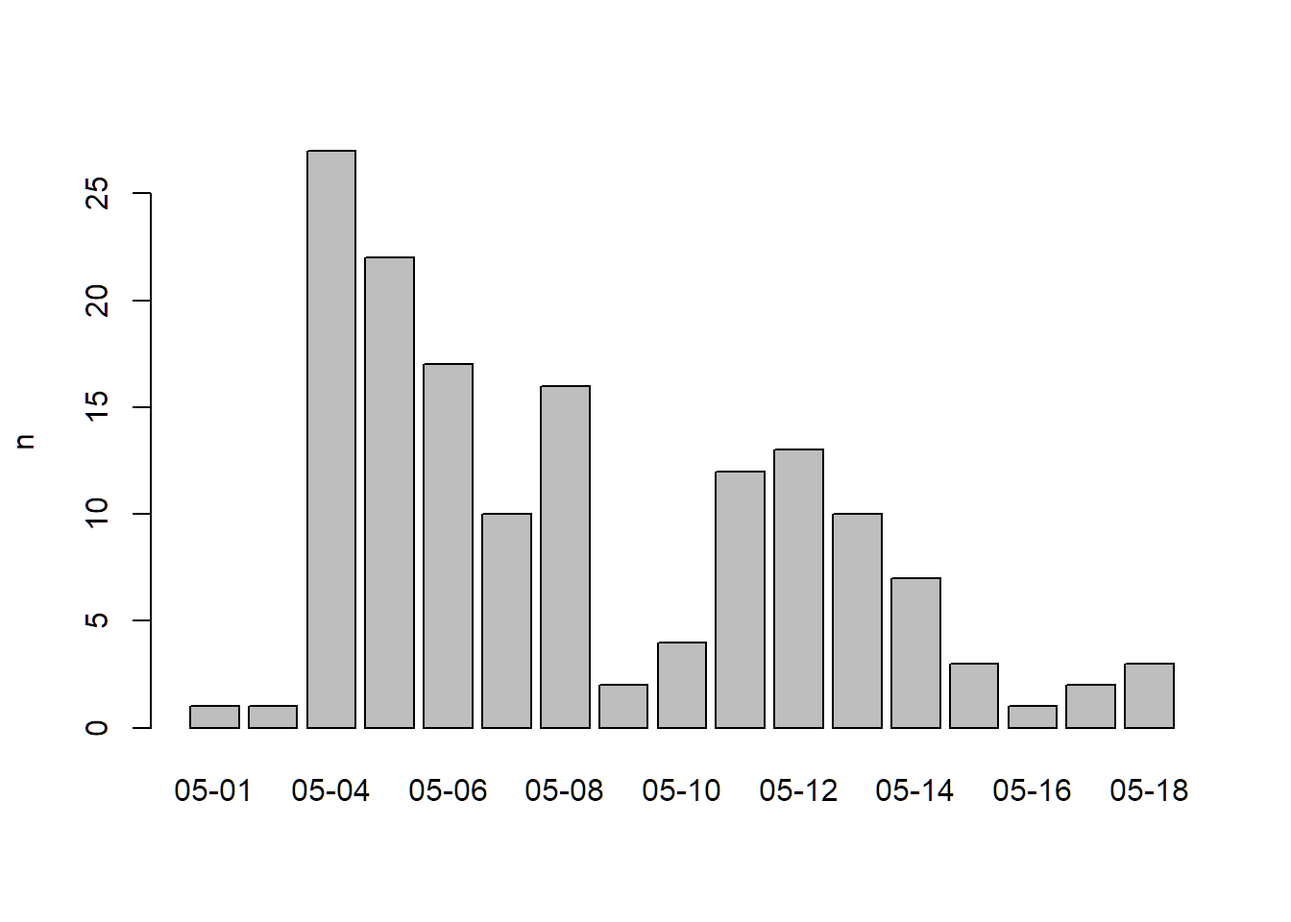
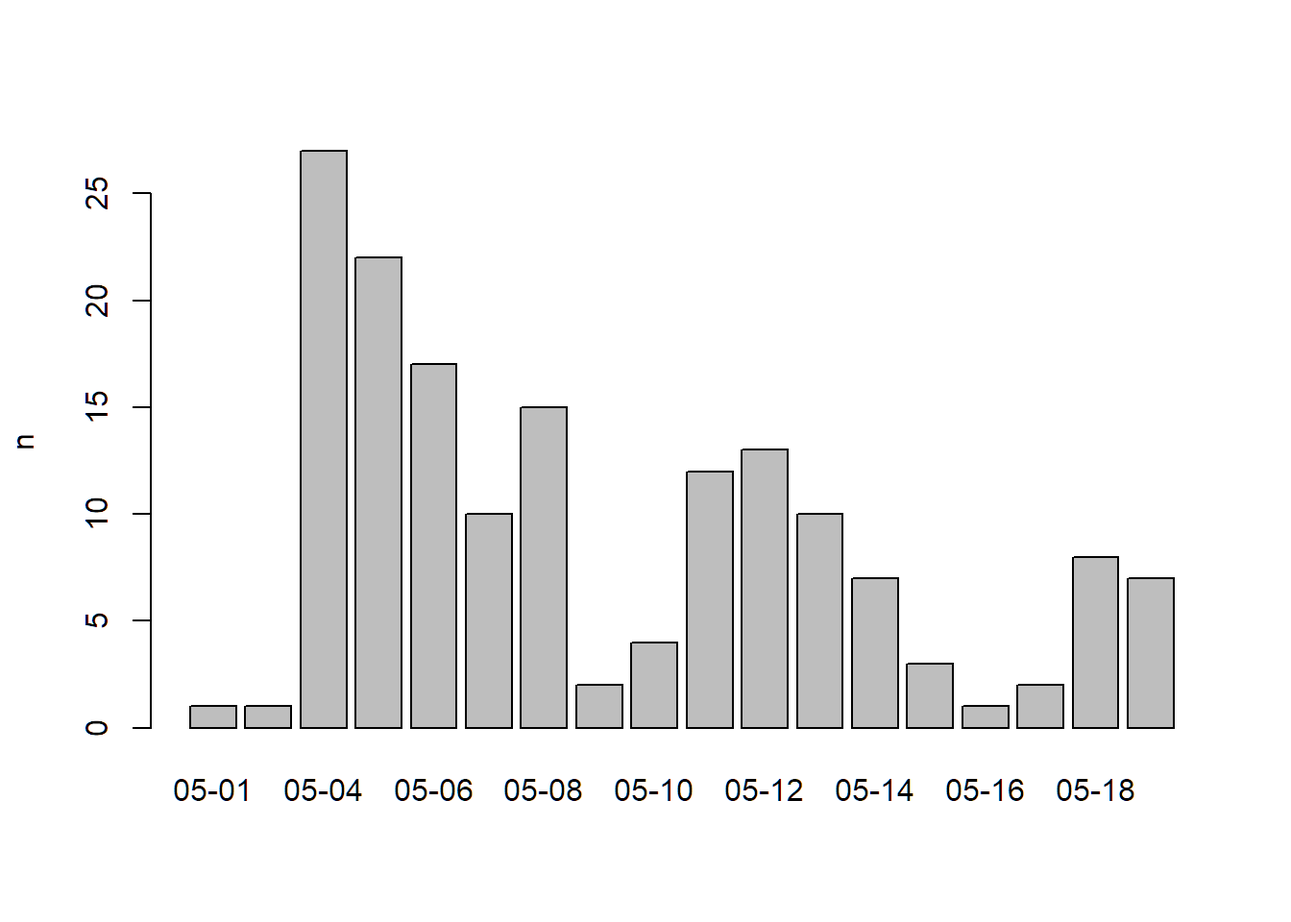
Updated registration summary

Changed region(s): [[0.2188, 0.1562, 0.9375, 0.8125], [0.125, 0.8438, 0.9375, 0.875]]

diff --git a/docs/reg_summary.html b/docs/reg_summary.html
@@ -268,7 +268,7 @@ div.tocify {
 
 
 <h1 class="title toc-ignore">DroneCamp 2020 Registrations</h1>
-<h4 class="date">as of Monday May 18, 11:20</h4>
+<h4 class="date">as of Tuesday May 19, 11:22</h4>
 
 </div>
 
@@ -299,15 +299,15 @@ h4 {
 <h1>Summary</h1>
 <p><p class="total">
 Total: 
-151
+162
 </p><p>
 <em>estimate based on unique email addresses</em>
 </p></p>
 </div>
 <div id="map" class="section level1">
 <h1>Map</h1>
-<div id="htmlwidget-15b90b92d0d6ee7c27e3" style="width:672px;height:480px;" class="leaflet html-widget"></div>
-<script type="application/json" data-for="htmlwidget-15b90b92d0d6ee7c27e3">{"x":{"options":{"crs":{"crsClass":"L.CRS.EPSG3857","code":null,"proj4def":null,"projectedBounds":null,"options":{}}},"calls":[{"method":"addTiles","args":["//{s}.tile.openstreetmap.org/{z}/{x}/{y}.png",null,null,{"minZoom":0,"maxZoom":18,"tileSize":256,"subdomains":"abc","errorTileUrl":"","tms":false,"noWrap":false,"zoomOffset":0,"zoomReverse":false,"opacity":1,"zIndex":1,"detectRetina":false,"attribution":"&copy; <a href=\"http://openstreetmap.org\">OpenStreetMap<\/a> contributors, <a href=\"http://creativecommons.org/licenses/by-sa/2.0/\">CC-BY-SA<\/a>"}]},{"method":"addCircleMarkers","args":[[37.4635519,36.678155,44.6111643,44.60509,38.5449065,32.7764749,36.825582,34.048411,38.5449065,36.9741171,38.556576,40.8020712,35.5005139,36.9707,38.5449065,37.7749295,40.659753,38.457611,37.523901,32.700018,36.6002378,34.117047,37.9829496,40.867469,36.681161,34.4208305,38.549256,41.081726,38.440111,32.704499,33.794028,40.039784,40.160138,39.5807452,52.9817372,49.2488091,43.6150186,39.072831,47.6248791,51.0447331,40.5852602,34.063209,37.5629917,36.678155,36.447533,35.5496939,40.5852602,34.0966764,36.6844029,49.2827291,34.268736,39.830936,36.722616,40.4233142,40.5852602,39.720955,36.9741171,36.6844029,43.0085587,37.3021632,40.867469,37.8715226,38.480494,33.640302,36.148444,49.2488091,38.672127,32.715738,39.7392358,38.3293416,38.3293416,38.3293416,40.0149856,40.4233142,36.812905,33.571185,34.0522342,32.715738,32.557684,38.939926,38.939926,47.899217,45.497856,41.971044,34.432896,36.3302284,36.358928,36.678155,39.9242266,38.7296252,43.828266,32.6926512,32.8328112,49.2710518,39.202725,34.110009,37.4529598,45.5051064,39.767536,49.1344187,39.114138,34.1175895,39.049377,39.049377,47.899217,32.800259,32.853471,40.399281,32.8111612,50.9341773,36.6844029,37.342056,33.016928,39.15973,39.720955,33.869114,33.016928,32.715738,36.678155,38.546306,39.7778,45.56544,45.482341,51.1097378,38.528103,38.528103,37.8715226,38.546306,26.067966,39.735745,36.691036,51.0869594,38.359772,36.865587,32.918035,40.399281,39.403178,37.010322,38.549256,36.680194,36.665879,37.8715226,37.232027,36.61365,38.549256,33.571185,36.619065,32.8328112,43.0730517,36.665879],[-122.4285862,-121.79724,-69.3345032,-69.33022,-121.7405167,-79.9310512,-119.76358,-118.34015,-121.7405167,-122.0307963,-121.49285,-124.1636729,-119.2717761,-121.99086,-121.7405167,-122.4194155,-124.22153,-122.69317,-120.8516,-114.52671,-121.8946761,-117.77097,-120.3821724,-124.07519,-121.61538,-119.6981901,-121.73655,-124.13112,-122.74563,-114.64644,-118.07218,-105.27938,-105.01772,-104.8771726,-122.4949058,-122.9805104,-116.2023137,-108.55,-122.5210007,-114.0718831,-105.084423,-118.43643,-122.3255254,-121.79724,-121.68611,-120.7060049,-105.084423,-117.7197785,-121.802173,-123.1207375,-119.2249,-105.03736,-120.10081,-104.7091322,-105.084423,-121.81888,-122.0307963,-121.802173,-81.2634983,-120.4829677,-124.07519,-122.273042,-122.74976,-117.769442,-95.90841,-122.9805104,-121.15783,-117.1610838,-104.990251,-122.7096666,-122.7096666,-122.7096666,-105.2705456,-104.7091322,-121.78299,-117.15362,-118.2436849,-117.1610838,-94.74353,-119.9771868,-119.9771868,-97.05896,-122.76988,-87.75869,-119.837072,-119.2920585,-119.24027,-121.79724,-83.8088171,-120.798546,-84.74219,-114.6276916,-117.2712717,-123.1588119,-121.02076,-117.71973,-122.1817252,-122.6750261,-105.01973,-123.1163498,-121.6196,-118.188329,-76.49892,-76.49892,-97.05896,-115.35369,-115.58942,-104.70172,-115.3802643,-114.106128,-121.802173,-120.50154,-116.846046,-121.53735,-121.81888,-117.92985,-116.846046,-117.1610838,-121.79724,-121.68682,-89.67982,-122.64635,-122.60007,-114.1517792,-76.98063,-76.98063,-122.273042,-121.68682,-80.22016,-105.19337,-119.83321,-114.1294249,-120.75324,-119.75917,-117.08438,-104.70172,-119.7606,-121.98523,-121.73655,-121.7822278,-121.65497,-122.273042,-80.42127,-119.52873,-121.73655,-117.15362,-121.92102,-117.2712717,-89.4012302,-121.65497],10,null,null,{"interactive":true,"className":"","stroke":true,"color":"#03F","weight":5,"opacity":0.5,"fill":true,"fillColor":"#03F","fillOpacity":0.2},1,null,["CE Advisor (Urban Forestry)<br/>UCCE San Mateo/San Francisco","Human Resources<br/>MPC Student","Professor<br/>Unity College","Professor of Geoscience<br/>Unity College","Executive Director, Sustainable Wine & Food Processing Center<br/>University of California Davis","Graduate Student<br/>College of Charleston","Turfgrass and Environmental Horticulture Advisor<br/>University of California Cooperative Extension","Postdoctoral Scholar<br/>UCLA","Associate Director River Restoration<br/>American Rivers","Senior Restoration Ecologist<br/>River Partners","Graduate Student<br/>UC Davis","Associate Environmental Planner<br/>Caltrans","Consultant/Remote Sensing Engineer<br/>Wonderful","Masters Candidate<br/>University of California Santa Cruz","Postdoc<br/>UC Davis","GIS Manager/Drone Pilot<br/>SFEI","Assistant Professor<br/>College of the Redwoods","Sr. GIS Analyst / Drone Ops<br/>Jackson Family Wines","Assistant Professor of Geography<br/>CSU, Stanislaus","Media Specialist and Drone Operator<br/>University of Arizona Yuma Center of Excellence for Desert Agriculture","GIS Technician<br/>CSU Monterey Bay","Statewide Survey and Trapping Coordinator<br/>UC IPM","Professor<br/>Columbia College","Adjunct Lecturer<br/>Humboldt State University","Student Researcher<br/>California State University Monterey Bay","Master Student<br/>UCSB","Graduate PhD student<br/>University of California Davis","Student<br/>College of the redwoods","Department Chair<br/>Santa Rosa Junior College","Professor of Geosciences/UAS<br/>Arizona Western College","Environmental Scientist<br/>California Department of Fish and Wildlife, Office of Spill Prevention and Response","GIS Ana.yst<br/>AGS Inc.","Unemployed<br/>Unemployed","GIS Specialist<br/>ICON Engineering","Student / BC Ministry of Forests Auxiliary<br/>British Columbia Institute of Technology","Student<br/>British Columbia Institute of Technology","Assistant Professor, Human Environment Systems<br/>Boise State University","GIS Technician<br/>City of Grand Junction","Sr Wildlife Biologist/Project Manager<br/>ManTech International","Geographer<br/>none","Owner<br/>Private Business","Undergraduate<br/>University of California, Berkeley","Student<br/>College of San Mateo","Graduate student<br/>UC Santa Cruz","Director, Hastings Reserve<br/>UC Berkeley","Program Manager<br/>Upper Salinas Las Tablas Resource Conservation District","Environmental Scientist<br/>Twin Fish Enterprises LLC","Student<br/>Claremont Graduate University","Graduate Student<br/>California State University Monterey Bay","Student<br/>BCIT","Lab/Field Assistant<br/>UCCE Ventura County","Sr Geographic Analyst<br/>HERE Technologies","Field Agronomist<br/>Bayer","Professor & Chair<br/>University of Northern Colorado","Student Researcher<br/>Colorado State University","Instructor<br/>Butte College","Master Student<br/>University of California Santa Cruz","IST II<br/>CSU. Monterey Bay","Teaching assistant<br/>Western University","Student<br/>UC Merced","It<br/>Humboldt State U","Field Research Safety CoE/Health & Safety Advisor<br/>UC Berkeley","Dairy Advisor<br/>University of California Cooperative Extension","Principal IT Auditor<br/>UC Irvine","Graduate student<br/>University of Tulsa","GIS Student<br/>BCIT","Postdoc<br/>UCDavis","Videographer<br/>SDSC","Student<br/>University of Denver","Scientific Programs Manager<br/>Marin/Sonoma Mosquito and Vector Control District","Environmental Biologist<br/>Marin/Sonoma Mosquito and Vector Control District","Assistant Manager<br/>Marin/Sonoma Mosquito and Vector Control District","Field Engineer<br/>UNAVCO","Emeritus Professor<br/>University of Northern Colorado","Digital Media Assistant<br/>Elkhorn Slough Foundation","Community Edication Specialist<br/>UCCE","Graduate Student<br/>California State University, Los Angeles","Teaching Assistant<br/>UCSD","Student<br/>Letourneau University","Adjunct Instructor<br/>LTCC","Citizen Science Program Coordinator<br/>League to Save Lake Tahoe","Owner<br/>UAS for Good LLC","Instructor<br/>Portland Community College","Instructor<br/>Harper College","R & D Engineer<br/>University of California Santa Barbara","Environmental Scientist<br/>CAL FIRE","Forerstry Assistant II<br/>CAL FIRE","Student<br/>CSU Monterey Bay","Associate Professor/Geospatial Technology Coordinator<br/>Clark State Community College","GIS Manager<br/>County of El Dorado","Instructor<br/>Mid Michigan College","Postdoc<br/>University of Arizona","R&D Engineer<br/>UC San Diego/Scripps Oceanography","Biologist<br/>Hemmera","Middle School Science Teacher<br/>Nevada City School of the Arts","Digital Scholarship Librarian<br/>Claremont Colleges","Postdoctoral scholar<br/>UC Berkeley","student<br/>PSU","Retired<br/>None","Student in GIS<br/>BCIT (British Columbia Student of Technology)","Advisor<br/>UCCE Sutter-Yuba","GIS Analyst / Geophysicist / Geologist<br/>Rio Hondo College","Instructional Specialist<br/>Anne Arundel Community College","Professor<br/>Anne Arundel Community College","Assistant Professor of Aviation<br/>University of North Dakota","CENTER SUPERINTENDENT<br/>University of California  DREC","SRA<br/>University of California  DREC","Assistant Professor<br/>University of Northern Colorado","lab assistant<br/>UC Cooperative Extension  in Imperial","Student<br/>University of Calgary","Student<br/>CSUMB","Coordinator and Professor of Computer Science<br/>Merced College","Ph.D. student<br/>UC San Diego","Farm hand<br/>CSU Chico, student","Environmental Land Steward II<br/>Chico State Enterprise","President<br/>Roof Rx Inc","PhD student<br/>UCSD","PhD Student<br/>University of California, San Diego","Professor and Farm Incubator<br/>CSUMB","Program and Event Specialist<br/>UC ANR","Student<br/>University of Kentucky","STEAM coordinator<br/>Portland Community College","STEAM Coordinator<br/>Portland. Community College","student<br/>Univeristy of Calgary","Program Assistant - Transportation<br/>College of Southern Marland","Director I, Transportation Dept<br/>College of Southern Maryland","Graduate Student<br/>University of California, Berkeley","Sr. Systems Administrator<br/>University of California - Agriculture and Natural Resources","Geomatics Specialist<br/>UF","Multimedia Section Lead<br/>NREL","Research Associate<br/>Bayer Crop Science","Student<br/>University of Calgary","Farm Advisor<br/>UCCE Central Sierra","Asst. Specialist<br/>UC ANR","Student - Intern for Graduate Student Studying Habitat Restoration and GIS<br/>UC Davis","Associate Professor<br/>University of Northern Colorado","GIS Analyst<br/>Michael Baker International","student<br/>West Valley College","PhD student<br/>Uc Davis","Assistant Professor<br/>California State University Monterey Bay","IPM & Entomology Advisor<br/>University of California Cooperative Extension","Ph.D. Candidate<br/>University of California, Berkeley","Geospatial Ext. Specialist<br/>Virginia Tech","Assistant CE Specialist<br/>ANR","Graduate Student Researcher<br/>UC Davis","GIS Consultant<br/>GEOinovo Solutions Inc","Graduate Student Assistant<br/>CSUMB","Student<br/>University of California San Diego","Postdoctoral Fellow<br/>The University of Wisconsin","Senior Lecturer/Media Production Specialist<br/>Cinematic Arts & Technology, CSU Monterey Bay"],null,null,{"interactive":false,"permanent":false,"direction":"auto","opacity":1,"offset":[0,0],"textsize":"10px","textOnly":false,"className":"","sticky":true},null]}],"limits":{"lat":[26.067966,52.9817372],"lng":[-124.22153,-69.33022]}},"evals":[],"jsHooks":[]}</script>
+<div id="htmlwidget-54d2592f66dd72aba48a" style="width:672px;height:480px;" class="leaflet html-widget"></div>
+<script type="application/json" data-for="htmlwidget-54d2592f66dd72aba48a">{"x":{"options":{"crs":{"crsClass":"L.CRS.EPSG3857","code":null,"proj4def":null,"projectedBounds":null,"options":{}}},"calls":[{"method":"addTiles","args":["//{s}.tile.openstreetmap.org/{z}/{x}/{y}.png",null,null,{"minZoom":0,"maxZoom":18,"tileSize":256,"subdomains":"abc","errorTileUrl":"","tms":false,"noWrap":false,"zoomOffset":0,"zoomReverse":false,"opacity":1,"zIndex":1,"detectRetina":false,"attribution":"&copy; <a href=\"http://openstreetmap.org\">OpenStreetMap<\/a> contributors, <a href=\"http://creativecommons.org/licenses/by-sa/2.0/\">CC-BY-SA<\/a>"}]},{"method":"addCircleMarkers","args":[[37.4635519,36.678155,44.6111643,44.60509,38.5449065,32.7764749,36.825582,34.048411,38.5449065,36.9741171,38.556576,40.8020712,35.5005139,36.9707,38.5449065,37.7749295,40.659753,38.457611,37.523901,32.700018,36.6002378,34.117047,37.9829496,40.867469,36.681161,34.4208305,38.549256,41.081726,38.440111,32.704499,33.794028,40.039784,40.160138,39.5807452,52.9817372,49.2488091,43.6150186,39.072831,47.6248791,51.0447331,40.5852602,34.063209,37.5629917,36.678155,36.447533,35.5496939,40.5852602,34.0966764,36.6844029,49.2827291,34.268736,39.830936,36.722616,40.4233142,40.5852602,39.720955,36.9741171,36.6844029,43.0085587,37.3021632,40.867469,37.8715226,38.480494,33.640302,36.148444,49.2488091,38.672127,32.715738,39.7392358,38.3293416,38.3293416,38.3293416,40.0149856,40.4233142,36.812905,33.571185,34.0522342,32.715738,32.557684,38.939926,38.939926,47.899217,45.497856,41.971044,34.432896,36.3302284,36.358928,36.678155,39.9242266,38.7296252,43.828266,32.8328112,49.2710518,39.202725,34.110009,37.4529598,45.5051064,39.767536,49.1344187,39.114138,34.1175895,39.049377,39.049377,47.899217,32.800259,32.853471,40.399281,32.8111612,50.9341773,36.6844029,37.342056,33.016928,39.15973,39.720955,33.869114,33.016928,32.715738,36.678155,38.546306,39.7778,45.56544,45.482341,51.1097378,38.528103,38.528103,37.8715226,38.546306,26.067966,39.735745,36.691036,51.0869594,38.359772,36.865587,32.918035,40.399281,39.403178,37.010322,38.549256,36.680194,36.665879,37.8715226,37.232027,36.61365,38.549256,33.571185,36.619065,32.8328112,43.0730517,36.665879,43.165134,60.766603,37.057708,32.6926512,33.835465,38.480494,41.5264977,42.02933,49.1682866,43.06956,49.2609021,33.785166],[-122.4285862,-121.79724,-69.3345032,-69.33022,-121.7405167,-79.9310512,-119.76358,-118.34015,-121.7405167,-122.0307963,-121.49285,-124.1636729,-119.2717761,-121.99086,-121.7405167,-122.4194155,-124.22153,-122.69317,-120.8516,-114.52671,-121.8946761,-117.77097,-120.3821724,-124.07519,-121.61538,-119.6981901,-121.73655,-124.13112,-122.74563,-114.64644,-118.07218,-105.27938,-105.01772,-104.8771726,-122.4949058,-122.9805104,-116.2023137,-108.55,-122.5210007,-114.0718831,-105.084423,-118.43643,-122.3255254,-121.79724,-121.68611,-120.7060049,-105.084423,-117.7197785,-121.802173,-123.1207375,-119.2249,-105.03736,-120.10081,-104.7091322,-105.084423,-121.81888,-122.0307963,-121.802173,-81.2634983,-120.4829677,-124.07519,-122.273042,-122.74976,-117.769442,-95.90841,-122.9805104,-121.15783,-117.1610838,-104.990251,-122.7096666,-122.7096666,-122.7096666,-105.2705456,-104.7091322,-121.78299,-117.15362,-118.2436849,-117.1610838,-94.74353,-119.9771868,-119.9771868,-97.05896,-122.76988,-87.75869,-119.837072,-119.2920585,-119.24027,-121.79724,-83.8088171,-120.798546,-84.74219,-117.2712717,-123.1588119,-121.02076,-117.71973,-122.1817252,-122.6750261,-105.01973,-123.1163498,-121.6196,-118.188329,-76.49892,-76.49892,-97.05896,-115.35369,-115.58942,-104.70172,-115.3802643,-114.106128,-121.802173,-120.50154,-116.846046,-121.53735,-121.81888,-117.92985,-116.846046,-117.1610838,-121.79724,-121.68682,-89.67982,-122.64635,-122.60007,-114.1517792,-76.98063,-76.98063,-122.273042,-121.68682,-80.22016,-105.19337,-119.83321,-114.1294249,-120.75324,-119.75917,-117.08438,-104.70172,-119.7606,-121.98523,-121.73655,-121.7822278,-121.65497,-122.273042,-80.42127,-119.52873,-121.73655,-117.15362,-121.92102,-117.2712717,-89.4012302,-121.65497,-76.33901,-161.88006,-122.05967,-114.6276916,-117.87362,-122.74976,-70.6730857,-93.60966,-122.9101347,-89.423861,-123.1341072,-117.93406],10,null,null,{"interactive":true,"className":"","stroke":true,"color":"#03F","weight":5,"opacity":0.5,"fill":true,"fillColor":"#03F","fillOpacity":0.2},1,null,["CE Advisor (Urban Forestry)<br/>UCCE San Mateo/San Francisco","Human Resources<br/>MPC Student","Professor<br/>Unity College","Professor of Geoscience<br/>Unity College","Executive Director, Sustainable Wine & Food Processing Center<br/>University of California Davis","Graduate Student<br/>College of Charleston","Turfgrass and Environmental Horticulture Advisor<br/>University of California Cooperative Extension","Postdoctoral Scholar<br/>UCLA","Associate Director River Restoration<br/>American Rivers","Senior Restoration Ecologist<br/>River Partners","Graduate Student<br/>UC Davis","Associate Environmental Planner<br/>Caltrans","Consultant/Remote Sensing Engineer<br/>Wonderful","Masters Candidate<br/>University of California Santa Cruz","Postdoc<br/>UC Davis","GIS Manager/Drone Pilot<br/>SFEI","Assistant Professor<br/>College of the Redwoods","Sr. GIS Analyst / Drone Ops<br/>Jackson Family Wines","Assistant Professor of Geography<br/>CSU, Stanislaus","Media Specialist and Drone Operator<br/>University of Arizona Yuma Center of Excellence for Desert Agriculture","GIS Technician<br/>CSU Monterey Bay","Statewide Survey and Trapping Coordinator<br/>UC IPM","Professor<br/>Columbia College","Adjunct Lecturer<br/>Humboldt State University","Student Researcher<br/>California State University Monterey Bay","Master Student<br/>UCSB","Graduate PhD student<br/>University of California Davis","Student<br/>College of the redwoods","Department Chair<br/>Santa Rosa Junior College","Professor of Geosciences/UAS<br/>Arizona Western College","Environmental Scientist<br/>California Department of Fish and Wildlife, Office of Spill Prevention and Response","GIS Ana.yst<br/>AGS Inc.","Unemployed<br/>Unemployed","GIS Specialist<br/>ICON Engineering","Student / BC Ministry of Forests Auxiliary<br/>British Columbia Institute of Technology","Student<br/>British Columbia Institute of Technology","Assistant Professor, Human Environment Systems<br/>Boise State University","GIS Technician<br/>City of Grand Junction","Sr Wildlife Biologist/Project Manager<br/>ManTech International","Geographer<br/>none","Owner<br/>Private Business","Undergraduate<br/>University of California, Berkeley","Student<br/>College of San Mateo","Graduate student<br/>UC Santa Cruz","Director, Hastings Reserve<br/>UC Berkeley","Program Manager<br/>Upper Salinas Las Tablas Resource Conservation District","Environmental Scientist<br/>Twin Fish Enterprises LLC","Student<br/>Claremont Graduate University","Graduate Student<br/>California State University Monterey Bay","Student<br/>BCIT","Lab/Field Assistant<br/>UCCE Ventura County","Sr Geographic Analyst<br/>HERE Technologies","Field Agronomist<br/>Bayer","Professor & Chair<br/>University of Northern Colorado","Student Researcher<br/>Colorado State University","Instructor<br/>Butte College","Master Student<br/>University of California Santa Cruz","IST II<br/>CSU. Monterey Bay","Teaching assistant<br/>Western University","Student<br/>UC Merced","It<br/>Humboldt State U","Field Research Safety CoE/Health & Safety Advisor<br/>UC Berkeley","Dairy Advisor<br/>University of California Cooperative Extension","Principal IT Auditor<br/>UC Irvine","Graduate student<br/>University of Tulsa","GIS Student<br/>BCIT","Postdoc<br/>UCDavis","Videographer<br/>SDSC","Student<br/>University of Denver","Scientific Programs Manager<br/>Marin/Sonoma Mosquito and Vector Control District","Environmental Biologist<br/>Marin/Sonoma Mosquito and Vector Control District","Assistant Manager<br/>Marin/Sonoma Mosquito and Vector Control District","Field Engineer<br/>UNAVCO","Emeritus Professor<br/>University of Northern Colorado","Digital Media Assistant<br/>Elkhorn Slough Foundation","Community Edication Specialist<br/>UCCE","Graduate Student<br/>California State University, Los Angeles","Teaching Assistant<br/>UCSD","Student<br/>Letourneau University","Adjunct Instructor<br/>LTCC","Citizen Science Program Coordinator<br/>League to Save Lake Tahoe","Owner<br/>UAS for Good LLC","Instructor<br/>Portland Community College","Instructor<br/>Harper College","R & D Engineer<br/>University of California Santa Barbara","Environmental Scientist<br/>CAL FIRE","Forerstry Assistant II<br/>CAL FIRE","Student<br/>CSU Monterey Bay","Associate Professor/Geospatial Technology Coordinator<br/>Clark State Community College","GIS Manager<br/>County of El Dorado","Instructor<br/>Mid Michigan College","R&D Engineer<br/>UC San Diego/Scripps Oceanography","Biologist<br/>Hemmera","Middle School Science Teacher<br/>Nevada City School of the Arts","Digital Scholarship Librarian<br/>Claremont Colleges","Postdoctoral scholar<br/>UC Berkeley","student<br/>PSU","Retired<br/>None","Student in GIS<br/>BCIT (British Columbia Student of Technology)","Advisor<br/>UCCE Sutter-Yuba","GIS Analyst / Geophysicist / Geologist<br/>Rio Hondo College","Instructional Specialist<br/>Anne Arundel Community College","Professor<br/>Anne Arundel Community College","Assistant Professor of Aviation<br/>University of North Dakota","CENTER SUPERINTENDENT<br/>University of California  DREC","SRA<br/>University of California  DREC","Assistant Professor<br/>University of Northern Colorado","lab assistant<br/>UC Cooperative Extension  in Imperial","Student<br/>University of Calgary","Student<br/>CSUMB","Coordinator and Professor of Computer Science<br/>Merced College","Ph.D. student<br/>UC San Diego","Farm hand<br/>CSU Chico, student","Environmental Land Steward II<br/>Chico State Enterprise","President<br/>Roof Rx Inc","PhD student<br/>UCSD","PhD Student<br/>University of California, San Diego","Professor and Farm Incubator<br/>CSUMB","Program and Event Specialist<br/>UC ANR","Student<br/>University of Kentucky","STEAM coordinator<br/>Portland Community College","STEAM Coordinator<br/>Portland. Community College","student<br/>Univeristy of Calgary","Program Assistant - Transportation<br/>College of Southern Marland","Director I, Transportation Dept<br/>College of Southern Maryland","Graduate Student<br/>University of California, Berkeley","Sr. Systems Administrator<br/>University of California - Agriculture and Natural Resources","Geomatics Specialist<br/>UF","Multimedia Section Lead<br/>NREL","Research Associate<br/>Bayer Crop Science","Student<br/>University of Calgary","Farm Advisor<br/>UCCE Central Sierra","Asst. Specialist<br/>UC ANR","Student - Intern for Graduate Student Studying Habitat Restoration and GIS<br/>UC Davis","Associate Professor<br/>University of Northern Colorado","GIS Analyst<br/>Michael Baker International","student<br/>West Valley College","PhD student<br/>Uc Davis","Assistant Professor<br/>California State University Monterey Bay","IPM & Entomology Advisor<br/>University of California Cooperative Extension","Ph.D. Candidate<br/>University of California, Berkeley","Geospatial Ext. Specialist<br/>Virginia Tech","Assistant CE Specialist<br/>ANR","Graduate Student Researcher<br/>UC Davis","GIS Consultant<br/>GEOinovo Solutions Inc","Graduate Student Assistant<br/>CSUMB","Student<br/>University of California San Diego","Postdoctoral Fellow<br/>The University of Wisconsin","Senior Lecturer/Media Production Specialist<br/>Cinematic Arts & Technology, CSU Monterey Bay","Student<br/>Syracuse University","Biologist/pilot<br/>US Fish and Wildlife Service","Postdoctoral Researcher<br/>UC Santa Cruz","Postdoctoral Research Associate<br/>University of Arizona","Student<br/>Rio Hondo College","Staff Surveyor<br/>Cinquini & Passarino Inc.","Research Scientist<br/>Marine Biological Laboratory","Graduate Research Assistant<br/>Iowa State University","Stuent<br/>British Columbia Institute of Technology","Undergraduate Researcher<br/>University of Wisconsin - Madison","Grad student<br/>UBC","Director, Drone Education Programs<br/>Vital Link OC"],null,null,{"interactive":false,"permanent":false,"direction":"auto","opacity":1,"offset":[0,0],"textsize":"10px","textOnly":false,"className":"","sticky":true},null]}],"limits":{"lat":[26.067966,60.766603],"lng":[-161.88006,-69.33022]}},"evals":[],"jsHooks":[]}</script>
 </div>
 <div id="by-top-level-domain" class="section level1">
 <h1>By Top Level Domain</h1>
@@ -331,10 +331,10 @@ percent
 edu
 </td>
 <td style="text-align:right;">
-104
+109
 </td>
 <td style="text-align:left;">
-68.9%
+67.3%
 </td>
 </tr>
 <tr>
@@ -342,10 +342,21 @@ edu
 com
 </td>
 <td style="text-align:right;">
-26
+29
 </td>
 <td style="text-align:left;">
-17.2%
+17.9%
+</td>
+</tr>
+<tr>
+<td style="text-align:left;">
+ca
+</td>
+<td style="text-align:right;">
+8
+</td>
+<td style="text-align:left;">
+4.9%
 </td>
 </tr>
 <tr>
@@ -356,18 +367,7 @@ org
 8
 </td>
 <td style="text-align:left;">
-5.3%
-</td>
-</tr>
-<tr>
-<td style="text-align:left;">
-ca
-</td>
-<td style="text-align:right;">
-6
-</td>
-<td style="text-align:left;">
-4%
+4.9%
 </td>
 </tr>
 <tr>
@@ -375,10 +375,10 @@ ca
 gov
 </td>
 <td style="text-align:right;">
-5
+6
 </td>
 <td style="text-align:left;">
-3.3%
+3.7%
 </td>
 </tr>
 <tr>
@@ -389,7 +389,7 @@ net
 1
 </td>
 <td style="text-align:left;">
-0.7%
+0.6%
 </td>
 </tr>
 <tr>
@@ -400,7 +400,7 @@ us
 1
 </td>
 <td style="text-align:left;">
-0.7%
+0.6%
 </td>
 </tr>
 </tbody>
@@ -411,7 +411,7 @@ us
 <p>
 <em>
 Number of academic institutions = 
-51
+54
 </em>
 </p>
 <table class="table" style="width: auto !important; ">
@@ -460,6 +460,14 @@ n
 </tr>
 <tr>
 <td style="text-align:left;">
+<a href="http://ucsc.edu" style="     ">ucsc.edu</a>
+</td>
+<td style="text-align:right;">
+4
+</td>
+</tr>
+<tr>
+<td style="text-align:left;">
 <a href="http://unco.edu" style="     ">unco.edu</a>
 </td>
 <td style="text-align:right;">
@@ -477,14 +485,6 @@ n
 <tr>
 <td style="text-align:left;">
 <a href="http://pcc.edu" style="     ">pcc.edu</a>
-</td>
-<td style="text-align:right;">
-3
-</td>
-</tr>
-<tr>
-<td style="text-align:left;">
-<a href="http://ucsc.edu" style="     ">ucsc.edu</a>
 </td>
 <td style="text-align:right;">
 3
@@ -541,6 +541,14 @@ n
 <tr>
 <td style="text-align:left;">
 <a href="http://unity.edu" style="     ">unity.edu</a>
+</td>
+<td style="text-align:right;">
+2
+</td>
+</tr>
+<tr>
+<td style="text-align:left;">
+<a href="http://wisc.edu" style="     ">wisc.edu</a>
 </td>
 <td style="text-align:right;">
 2
@@ -652,6 +660,14 @@ n
 </tr>
 <tr>
 <td style="text-align:left;">
+<a href="http://iastate.edu" style="     ">iastate.edu</a>
+</td>
+<td style="text-align:right;">
+1
+</td>
+</tr>
+<tr>
+<td style="text-align:left;">
 <a href="http://letu.edu" style="     ">letu.edu</a>
 </td>
 <td style="text-align:right;">
@@ -669,6 +685,14 @@ n
 <tr>
 <td style="text-align:left;">
 <a href="http://mail.ltcc.edu" style="     ">mail.ltcc.edu</a>
+</td>
+<td style="text-align:right;">
+1
+</td>
+</tr>
+<tr>
+<td style="text-align:left;">
+<a href="http://mbl.edu" style="     ">mbl.edu</a>
 </td>
 <td style="text-align:right;">
 1
@@ -772,6 +796,14 @@ n
 </tr>
 <tr>
 <td style="text-align:left;">
+<a href="http://syr.edu" style="     ">syr.edu</a>
+</td>
+<td style="text-align:right;">
+1
+</td>
+</tr>
+<tr>
+<td style="text-align:left;">
 <a href="http://uci.edu" style="     ">uci.edu</a>
 </td>
 <td style="text-align:right;">
@@ -820,14 +852,6 @@ n
 </tr>
 <tr>
 <td style="text-align:left;">
-<a href="http://wisc.edu" style="     ">wisc.edu</a>
-</td>
-<td style="text-align:right;">
-1
-</td>
-</tr>
-<tr>
-<td style="text-align:left;">
 <a href="http://yosemite.edu" style="     ">yosemite.edu</a>
 </td>
 <td style="text-align:right;">
@@ -853,6 +877,14 @@ n
 <tbody>
 <tr>
 <td style="text-align:left;">
+British Columbia Institute of Technology
+</td>
+<td style="text-align:right;">
+3
+</td>
+</tr>
+<tr>
+<td style="text-align:left;">
 Marin/Sonoma Mosquito and Vector Control District
 </td>
 <td style="text-align:right;">
@@ -862,14 +894,6 @@ Marin/Sonoma Mosquito and Vector Control District
 <tr>
 <td style="text-align:left;">
 BCIT
-</td>
-<td style="text-align:right;">
-2
-</td>
-</tr>
-<tr>
-<td style="text-align:left;">
-British Columbia Institute of Technology
 </td>
 <td style="text-align:right;">
 2
@@ -942,6 +966,14 @@ California Department of Fish and Wildlife, Office of Spill Prevention and Respo
 <tr>
 <td style="text-align:left;">
 Caltrans
+</td>
+<td style="text-align:right;">
+1
+</td>
+</tr>
+<tr>
+<td style="text-align:left;">
+Cinquini &amp; Passarino Inc. 
 </td>
 <td style="text-align:right;">
 1
@@ -1077,6 +1109,14 @@ Private Business
 </tr>
 <tr>
 <td style="text-align:left;">
+Rio Hondo College
+</td>
+<td style="text-align:right;">
+1
+</td>
+</tr>
+<tr>
+<td style="text-align:left;">
 River Partners
 </td>
 <td style="text-align:right;">
@@ -1102,6 +1142,14 @@ SFEI
 <tr>
 <td style="text-align:left;">
 UAS for Good LLC
+</td>
+<td style="text-align:right;">
+1
+</td>
+</tr>
+<tr>
+<td style="text-align:left;">
+UBC
 </td>
 <td style="text-align:right;">
 1
@@ -1150,6 +1198,22 @@ University of Tulsa
 <tr>
 <td style="text-align:left;">
 Upper Salinas Las Tablas Resource Conservation District
+</td>
+<td style="text-align:right;">
+1
+</td>
+</tr>
+<tr>
+<td style="text-align:left;">
+US Fish and Wildlife Service
+</td>
+<td style="text-align:right;">
+1
+</td>
+</tr>
+<tr>
+<td style="text-align:left;">
+Vital Link OC
 </td>
 <td style="text-align:right;">
 1
